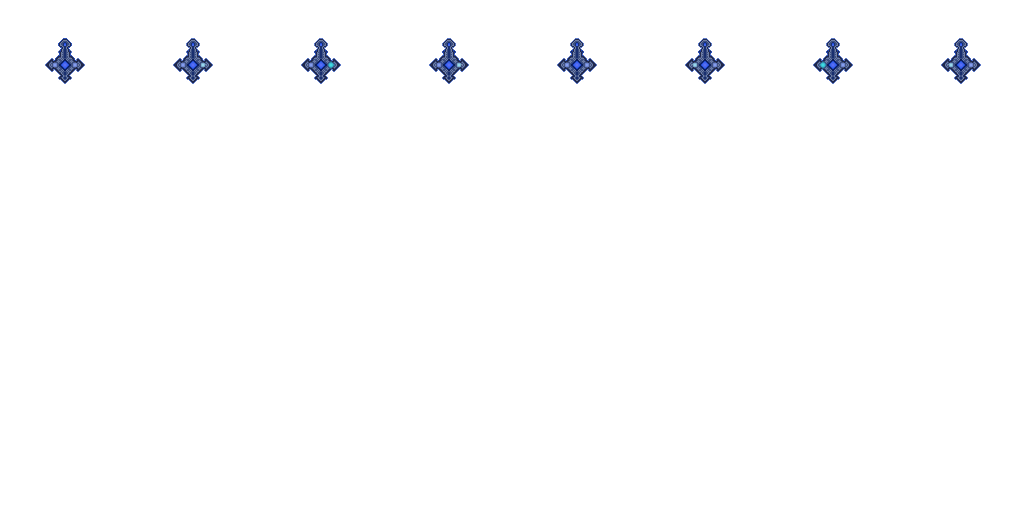
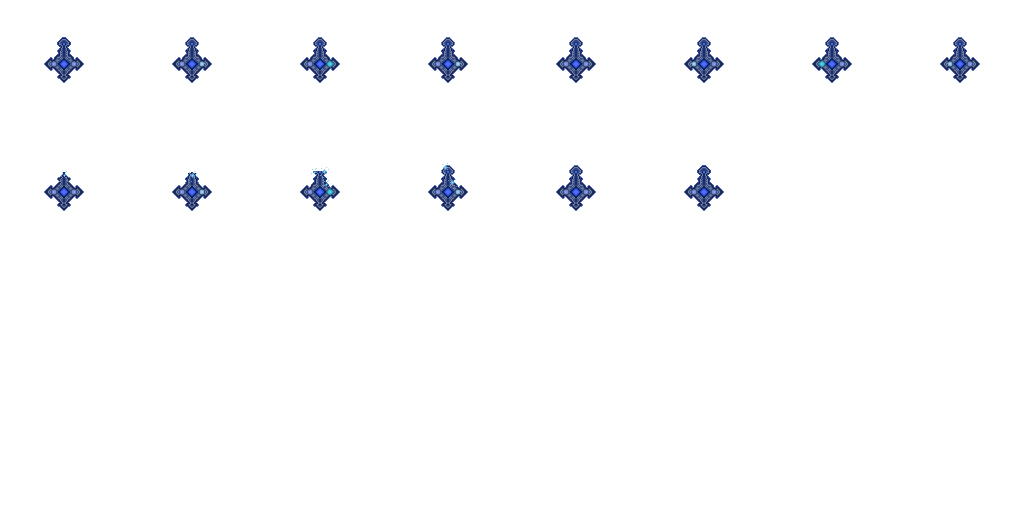
fix animation temp state

diff --git a/UIDrawer/QML/MapItem.qml b/UIDrawer/QML/MapItem.qml
@@ -29,29 +29,51 @@ Rectangle {
 
 
     AnimatedSprite {
+        id: sprite
 
         property int rowNumber: parent.control.rowInFrame;
+        property bool infinityLoops: parent.control.infinityLoop;
+        property string animSrc: parent.control.animMainSrc;
+        property int animFrameCnt: parent.control.animFrameCnt;
+        property int animFrameRate: parent.control.animFrameRate;
 
-        id: sprite
+
         width: 128
         height: 128
         anchors.centerIn: parent
         z: 3;
 
-        source: parent.control.animMainSrc;
-        frameCount: parent.control.animFrameCnt;
+        source: "";
+        frameCount: 8;
         frameWidth: 128
         frameHeight: 128
-        frameRate: parent.control.animFrameRate;
-        running: parent.control.objIsActive;
+        frameRate: 4;
+        running: parent.control.objIsvisible;
         visible: parent.control.objIsvisible;
 
-        onRowNumberChanged:
+        Connections
         {
-            frameY = frameHeight * rowNumber;
-            restart();
-        }
+            target: control
+            onApplyChanges:
+            {
+                sprite.source = sprite.animSrc;
+                if(sprite.infinityLoops)
+                {
+                    sprite.frameCount = sprite.animFrameCnt;
+                }
+                else
+                {
+                    sprite.frameCount = sprite.animFrameCnt + 2;
+                }
 
+                sprite.frameRate = sprite.animFrameRate;
+
+                sprite.frameX = 0;
+                sprite.frameY = sprite.frameHeight * sprite.rowNumber;
+
+                sprite.start();
+            }
+        }
     }
 
     MouseArea {

diff --git a/UIDrawer/QML/main.qml b/UIDrawer/QML/main.qml
@@ -172,16 +172,16 @@ ApplicationWindow {
                 var oldScaling = dragged.scaleValue;
                 if (wheel.angleDelta.y > 0)
                 {
-                    if(dragged.scaleValue > 0.8)
+                    if(dragged.scaleValue < 2)
                     {
-                        dragged.scaleValue -= 0.1;
+                        dragged.scaleValue += 0.1;
                     }
                 }
                 else
                 {
-                    if(dragged.scaleValue < 1.5)
+                    if(dragged.scaleValue > 0.8)
                     {
-                        dragged.scaleValue += 0.1;
+                        dragged.scaleValue -= 0.1;
                     }
                 }
 

diff --git a/UIDrawer/UIElements/cellcontroller.cpp b/UIDrawer/UIElements/cellcontroller.cpp
@@ -26,6 +26,7 @@ CellController::CellController(int id, QObject *parent) :
     m_markerSrc = QString("");
     m_curType = INVALID_OBJ_TYPE;
     m_timeToAnimate = 0;
+	m_infinityLoop = true;
 }
 
 /************************************************
@@ -119,6 +120,15 @@ int CellController::rowInFrame()
 }
 
 /************************************************
+ * Func: infinityLoop
+ * Desc: return true for infinity loop and false for 1 loop animation.
+ ***********************************************/
+bool CellController::infinityLoop()
+{
+	return m_infinityLoop;
+}
+
+/************************************************
  * Func: setNewAnimation
  * Desc: setup new animation for cell.
  ***********************************************/
@@ -130,6 +140,7 @@ void CellController::setNewAnimation(QString src, int cnt, double rate, int row)
     m_rowInFrame = row;
 
     emit animChanged();
+	emit applyChanges();
 }
 
 /************************************************
@@ -193,7 +204,7 @@ void CellController::setLevel(int level, int state)
 
     if(tempState)
     {
-        setTemproryState(frameCnt / 4.0);
+		setTemproryState(frameCnt / 4.0);
     }
 
     setNewAnimation(src, frameCnt, 4.0, row);
@@ -203,6 +214,7 @@ void CellController::setTemproryState(double animationTime)
 {
     double oldTime = m_timeToAnimate;
     m_timeToAnimate = animationTime;
+	m_infinityLoop = false;
 
     if(oldTime == 0)
     {
@@ -215,9 +227,10 @@ bool CellController::elapseTime(double time)
     bool continues = true;
 
     m_timeToAnimate -= time;
-    if(m_timeToAnimate <= 0)
+	if(m_timeToAnimate <= 0)	// trick
     {
         m_timeToAnimate = 0;
+		m_infinityLoop = true;
         setState((int)UI_NORMAL);
         continues = false;
     }
@@ -245,7 +258,7 @@ void CellController::setState(int state)
     int row = INVALIDE_VALUE;
     int frameCnt = INVALIDE_VALUE;
 
-    bool tempState = (m_state != state) && (state != UI_NORMAL);
+	bool tempState = state != UI_NORMAL;
 
     m_state = state;
     QString src = UIResDictionary::getInstance()
@@ -253,7 +266,7 @@ void CellController::setState(int state)
 
     if(tempState)
     {
-        setTemproryState(frameCnt / 4.0);
+		setTemproryState(frameCnt / 4.0);
     }
 
     setNewAnimation(src, frameCnt, 4.0, row);

diff --git a/UIDrawer/UIElements/cellcontroller.h b/UIDrawer/UIElements/cellcontroller.h
@@ -21,6 +21,7 @@ class CellController : public QObject
     Q_PROPERTY(int animFrameCnt READ mainObjAnimFrameCnt NOTIFY animChanged)
     Q_PROPERTY(double animFrameRate READ mainObjAnimFrameRate NOTIFY animChanged)
 	Q_PROPERTY(int rowInFrame READ rowInFrame NOTIFY animChanged)
+	Q_PROPERTY(bool infinityLoop READ infinityLoop NOTIFY animChanged)
 
 public:
 	explicit CellController(int id = 0, QObject *parent = 0);
@@ -38,6 +39,7 @@ public:
     int mainObjAnimFrameCnt();
     double mainObjAnimFrameRate();
 	int rowInFrame();
+	bool infinityLoop();
 	int id();
 
 
@@ -50,6 +52,7 @@ signals:
     void isActiveChanged();
     void objIsvisibleChanged();
     void animChanged();
+	void applyChanges();
 	void backChanged();
 	void markerChanged();
 	void mineralWealthChanged();
@@ -70,7 +73,7 @@ public slots:
 	void setSecType(int type);
 
 protected:
-    void setTemproryState(double animationTime);
+	void setTemproryState(double animationTime);
 
 	int m_id;
     bool m_active;
@@ -91,6 +94,7 @@ protected:
 	int m_mineralWealth;
 
     double m_timeToAnimate;
+	bool m_infinityLoop;
 };
 
 #endif // CELLCONTROLLER_H

diff --git a/UIDrawer/UIElements/uiresdictionary.cpp b/UIDrawer/UIElements/uiresdictionary.cpp
@@ -31,8 +31,8 @@ UIResDictionary::UIResDictionary()
 	classicNormalSpec->frameCnt = 8;
 	classicNormalSpec->rowNumber = 0;
 	UIResSpecifier* classicBuildSpec = new UIResSpecifier();
-	classicBuildSpec->frameCnt = 8;
-    classicBuildSpec->rowNumber = 1;	// TODO: temprory solution
+	classicBuildSpec->frameCnt = 4;
+	classicBuildSpec->rowNumber = 1;
 	UIResSpecifier* classicDestrSpec = new UIResSpecifier();
 	classicDestrSpec->frameCnt = 8;
 	classicDestrSpec->rowNumber = 0;	// TODO: temprory solution

diff --git a/UIDrawer/UIElements/uimapcontroller.cpp b/UIDrawer/UIElements/uimapcontroller.cpp
@@ -12,8 +12,7 @@ UIMapController* UIMapController::s_instance = nullptr;
  ***********************************************/
 UIMapController::UIMapController(QObject *parent):
 	QObject(parent),
-	m_cnt(1),
-	m_boarderWidth(1)
+	m_cnt(1)
 {
 	//create cellControllers map
 	for(int i = 0; i < MAP_WIDTH; i++ )
@@ -161,8 +160,6 @@ void UIMapController::InitCells()
 			m_cellUIObj[m_i][m_j] = item;
 		}
 	}
-
-	qDebug() << "2";
 }
 
 /************************************************

diff --git a/UIDrawer/UIElements/uimapcontroller.h b/UIDrawer/UIElements/uimapcontroller.h
@@ -42,14 +42,11 @@ protected:
 	QQmlApplicationEngine* m_engine;
 
 	QQuickItem* m_cellUIObj[MAP_WIDTH][MAP_HEIGHT];
-
 	CellController* m_cellCntrs[MAP_WIDTH][MAP_HEIGHT];
 
 	int m_cnt;
-	int m_boarderWidth;
 
 	MarkerController * m_markerCntr;
-
 
 	//support members for creating and linking cell objects
 	int m_i;

diff --git a/Enums/colonycontrol.h b/Enums/colonycontrol.h
@@ -5,7 +5,7 @@
 // Next definitions determine game version
 // String should be constructed vioa "V." + VERSION_MAJOR +"." + VERSION_MINOR
 #define VERSION_MAJOR 0
-#define VERSION_MINOR 208
+#define VERSION_MINOR 214
 
 #endif // COLONYCONTROL
 
